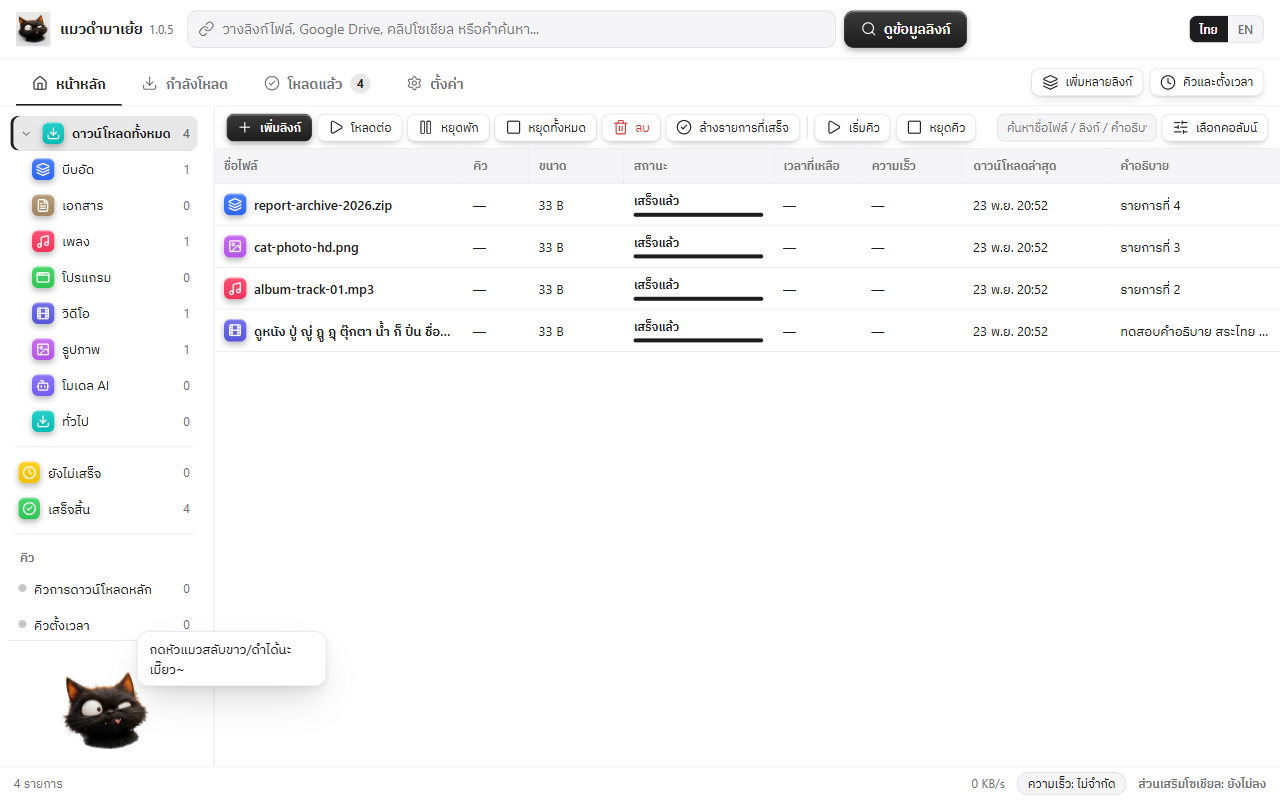
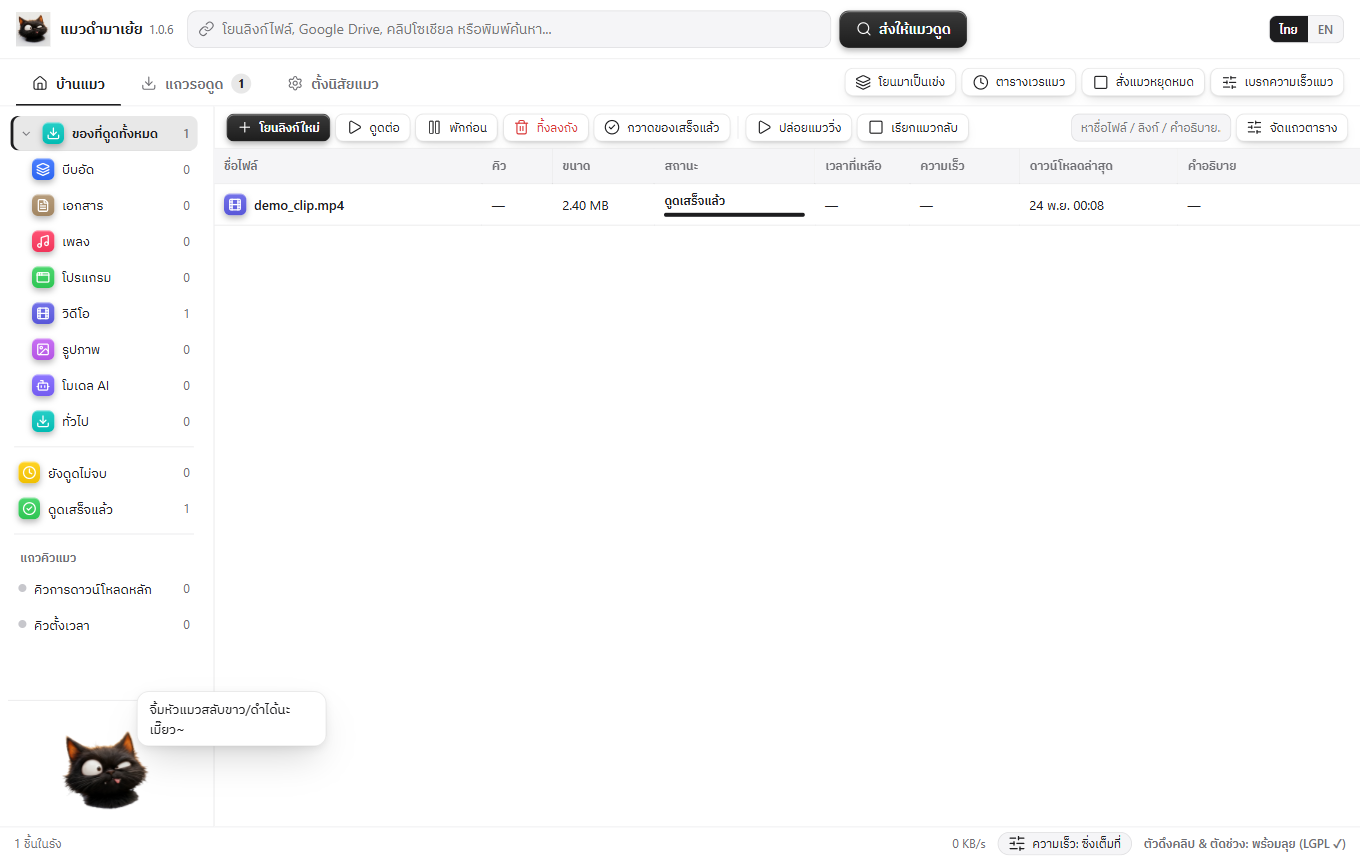
chore(glee-load): bridge MaewDamPC.json 1.0.5 -> 1.0.6 update manifest to glee-download-extra

diff --git a/README.md b/README.md
@@ -90,17 +90,17 @@
     <td valign="top">
       <h3>แมวดำมาเย้ย (GLee Load)</h3>
       <p>
-        โปรแกรมช่วยดาวน์โหลดไฟล์ความเร็วสูงบน Windows แบ่งหลายท่อน หยุดแล้วโหลดต่อ จัดคิว ตั้งเวลา จำกัดความเร็ว รองรับไฟล์ใหญ่จาก Google Drive พร้อมส่วนขยาย Chrome / Edge ในชุดติดตั้ง (ถ้าต้องการดึงคลิปโซเชียลและตัดช่วงคลิป ลง<a href="https://github.com/G-Lee21/glee-download-extra/releases">ส่วนเสริมโซเชียล</a>เพิ่มได้)<br />
-        <em>Fast Windows multi-part download manager with pause/resume, queues, scheduler, speed limiter, automatic Google Drive large-file support, and bundled Chrome / Edge extension. Optional <a href="https://github.com/G-Lee21/glee-download-extra/releases">Social Add-on</a> available separately for social clips and trimming.</em>
+        โปรแกรมช่วยดาวน์โหลดไฟล์และคลิปโซเชียลความเร็วสูงบน Windows แบ่งหลายท่อน หยุดแล้วโหลดต่อ จัดคิว ตั้งเวลา จำกัดความเร็ว รองรับไฟล์ใหญ่จาก Google Drive รวมตัวดึงคลิป ตัวรวมภาพกับเสียง (FFmpeg รุ่น LGPL) ตัดช่วง และส่วนขยาย Chrome / Edge (รุ่น 1.2.6) ในตัวติดตั้งเดียวที่ <a href="https://github.com/G-Lee21/glee-download-extra/releases/tag/load-v1.0.6">glee-download-extra</a><br />
+        <em>Fast Windows multi-part download manager and media saver with pause/resume, queues, scheduler, speed limiter, Google Drive large-file support, bundled LGPL media tools, and Chrome / Edge extension v1.2.6 — distributed as a unified installer via <a href="https://github.com/G-Lee21/glee-download-extra/releases/tag/load-v1.0.6">glee-download-extra</a>.</em>
       </p>
       <p>
-        <a href="https://github.com/G-Lee21/glee-download/releases/download/load-v1.0.5/GLee-Load-1.0.5-Setup.exe">
-          <img src="images/badge-download.svg" alt="ดาวน์โหลด GLee Load 1.0.5 · Download GLee Load 1.0.5" height="28" />
+        <a href="https://github.com/G-Lee21/glee-download-extra/releases/download/load-v1.0.6/GLee-Load-1.0.6-Setup.exe">
+          <img src="images/badge-download.svg" alt="ดาวน์โหลด GLee Load 1.0.6 · Download GLee Load 1.0.6" height="28" />
         </a>
-        &nbsp;<strong>รุ่น 1.0.5 (v1.0.5)</strong>
+        &nbsp;<strong>รุ่น 1.0.6 (v1.0.6 · ตัวติดตั้งเดียว)</strong>
         &nbsp;<code>Windows 10 / 11 (64-bit)</code>
-        &nbsp;·&nbsp;<a href="https://github.com/G-Lee21/glee-download/releases/tag/load-v1.0.5">รายละเอียดรุ่น · Release notes</a>
-        &nbsp;·&nbsp;<a href="https://github.com/G-Lee21/glee-download-extra/releases/tag/load-social-v1.0.5">ส่วนเสริมโซเชียล · Social Add-on</a>
+        &nbsp;·&nbsp;<a href="https://github.com/G-Lee21/glee-download-extra/releases/tag/load-v1.0.6">รายละเอียดรุ่น 1.0.6 · Release notes</a>
+        &nbsp;·&nbsp;<a href="https://github.com/G-Lee21/glee-download/releases/tag/load-v1.0.5">รุ่นเดิม 1.0.5</a>
       </p>
       <details open>
         <summary><strong>ภาพหน้าจอ · Screenshot</strong></summary>
